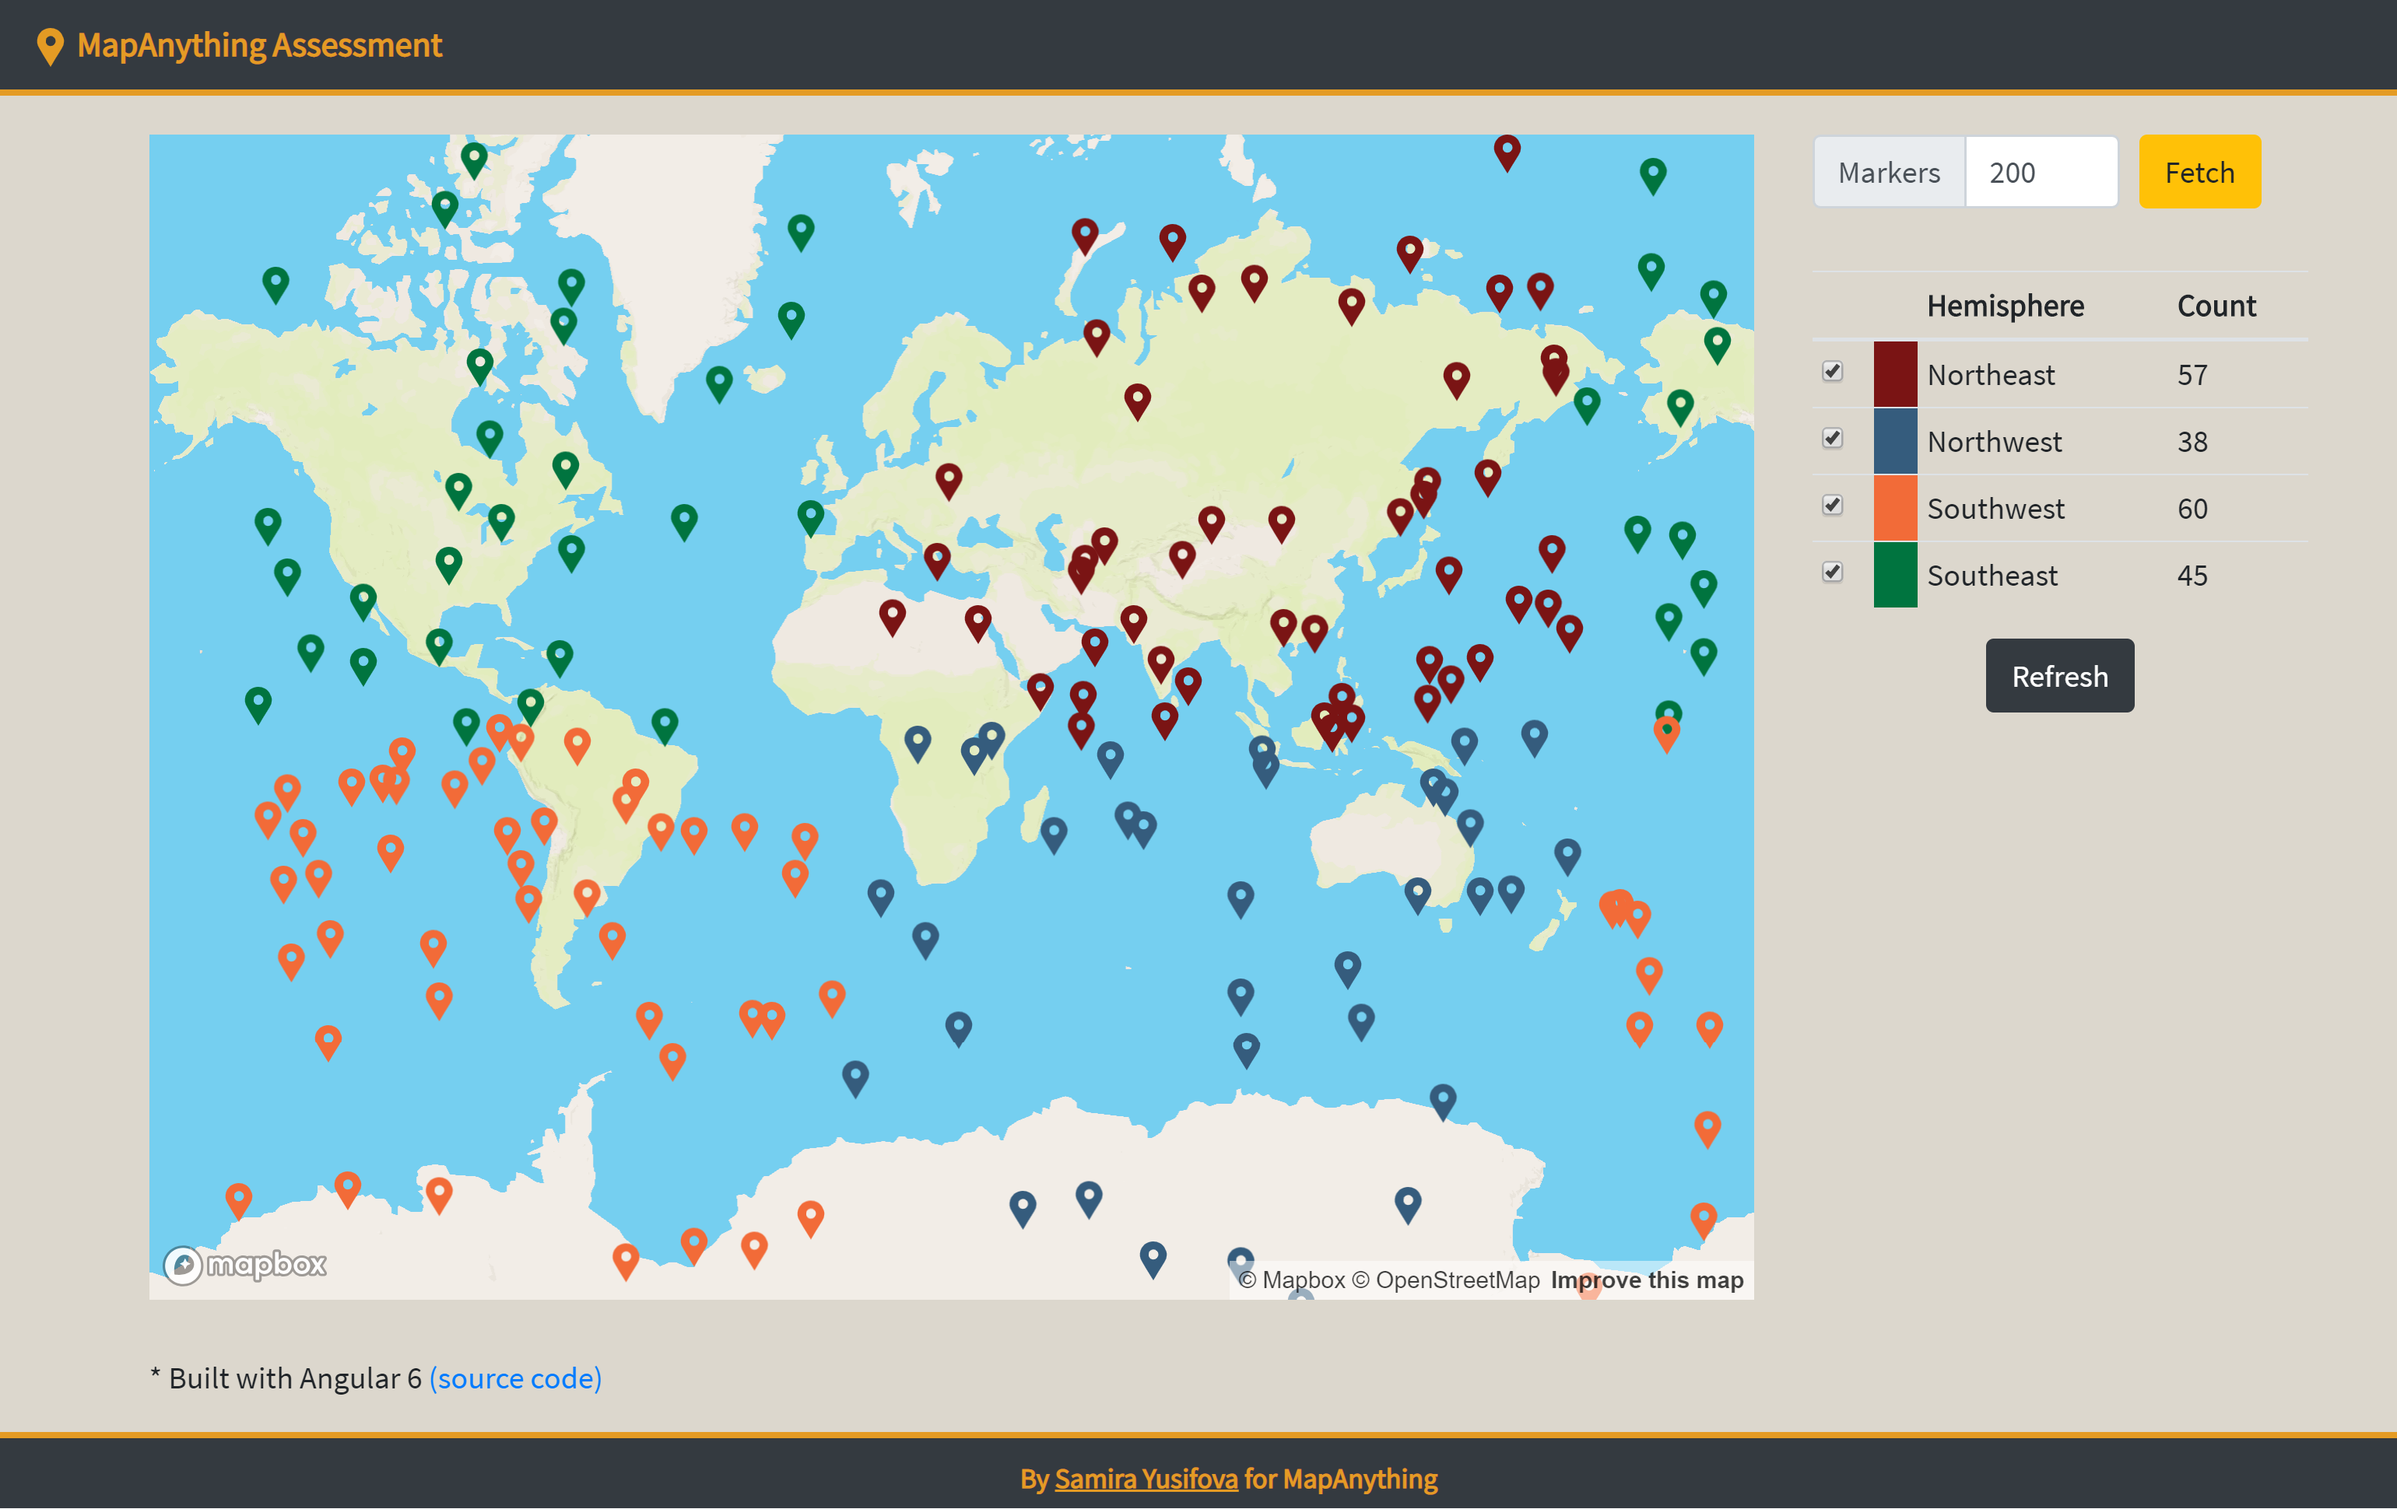
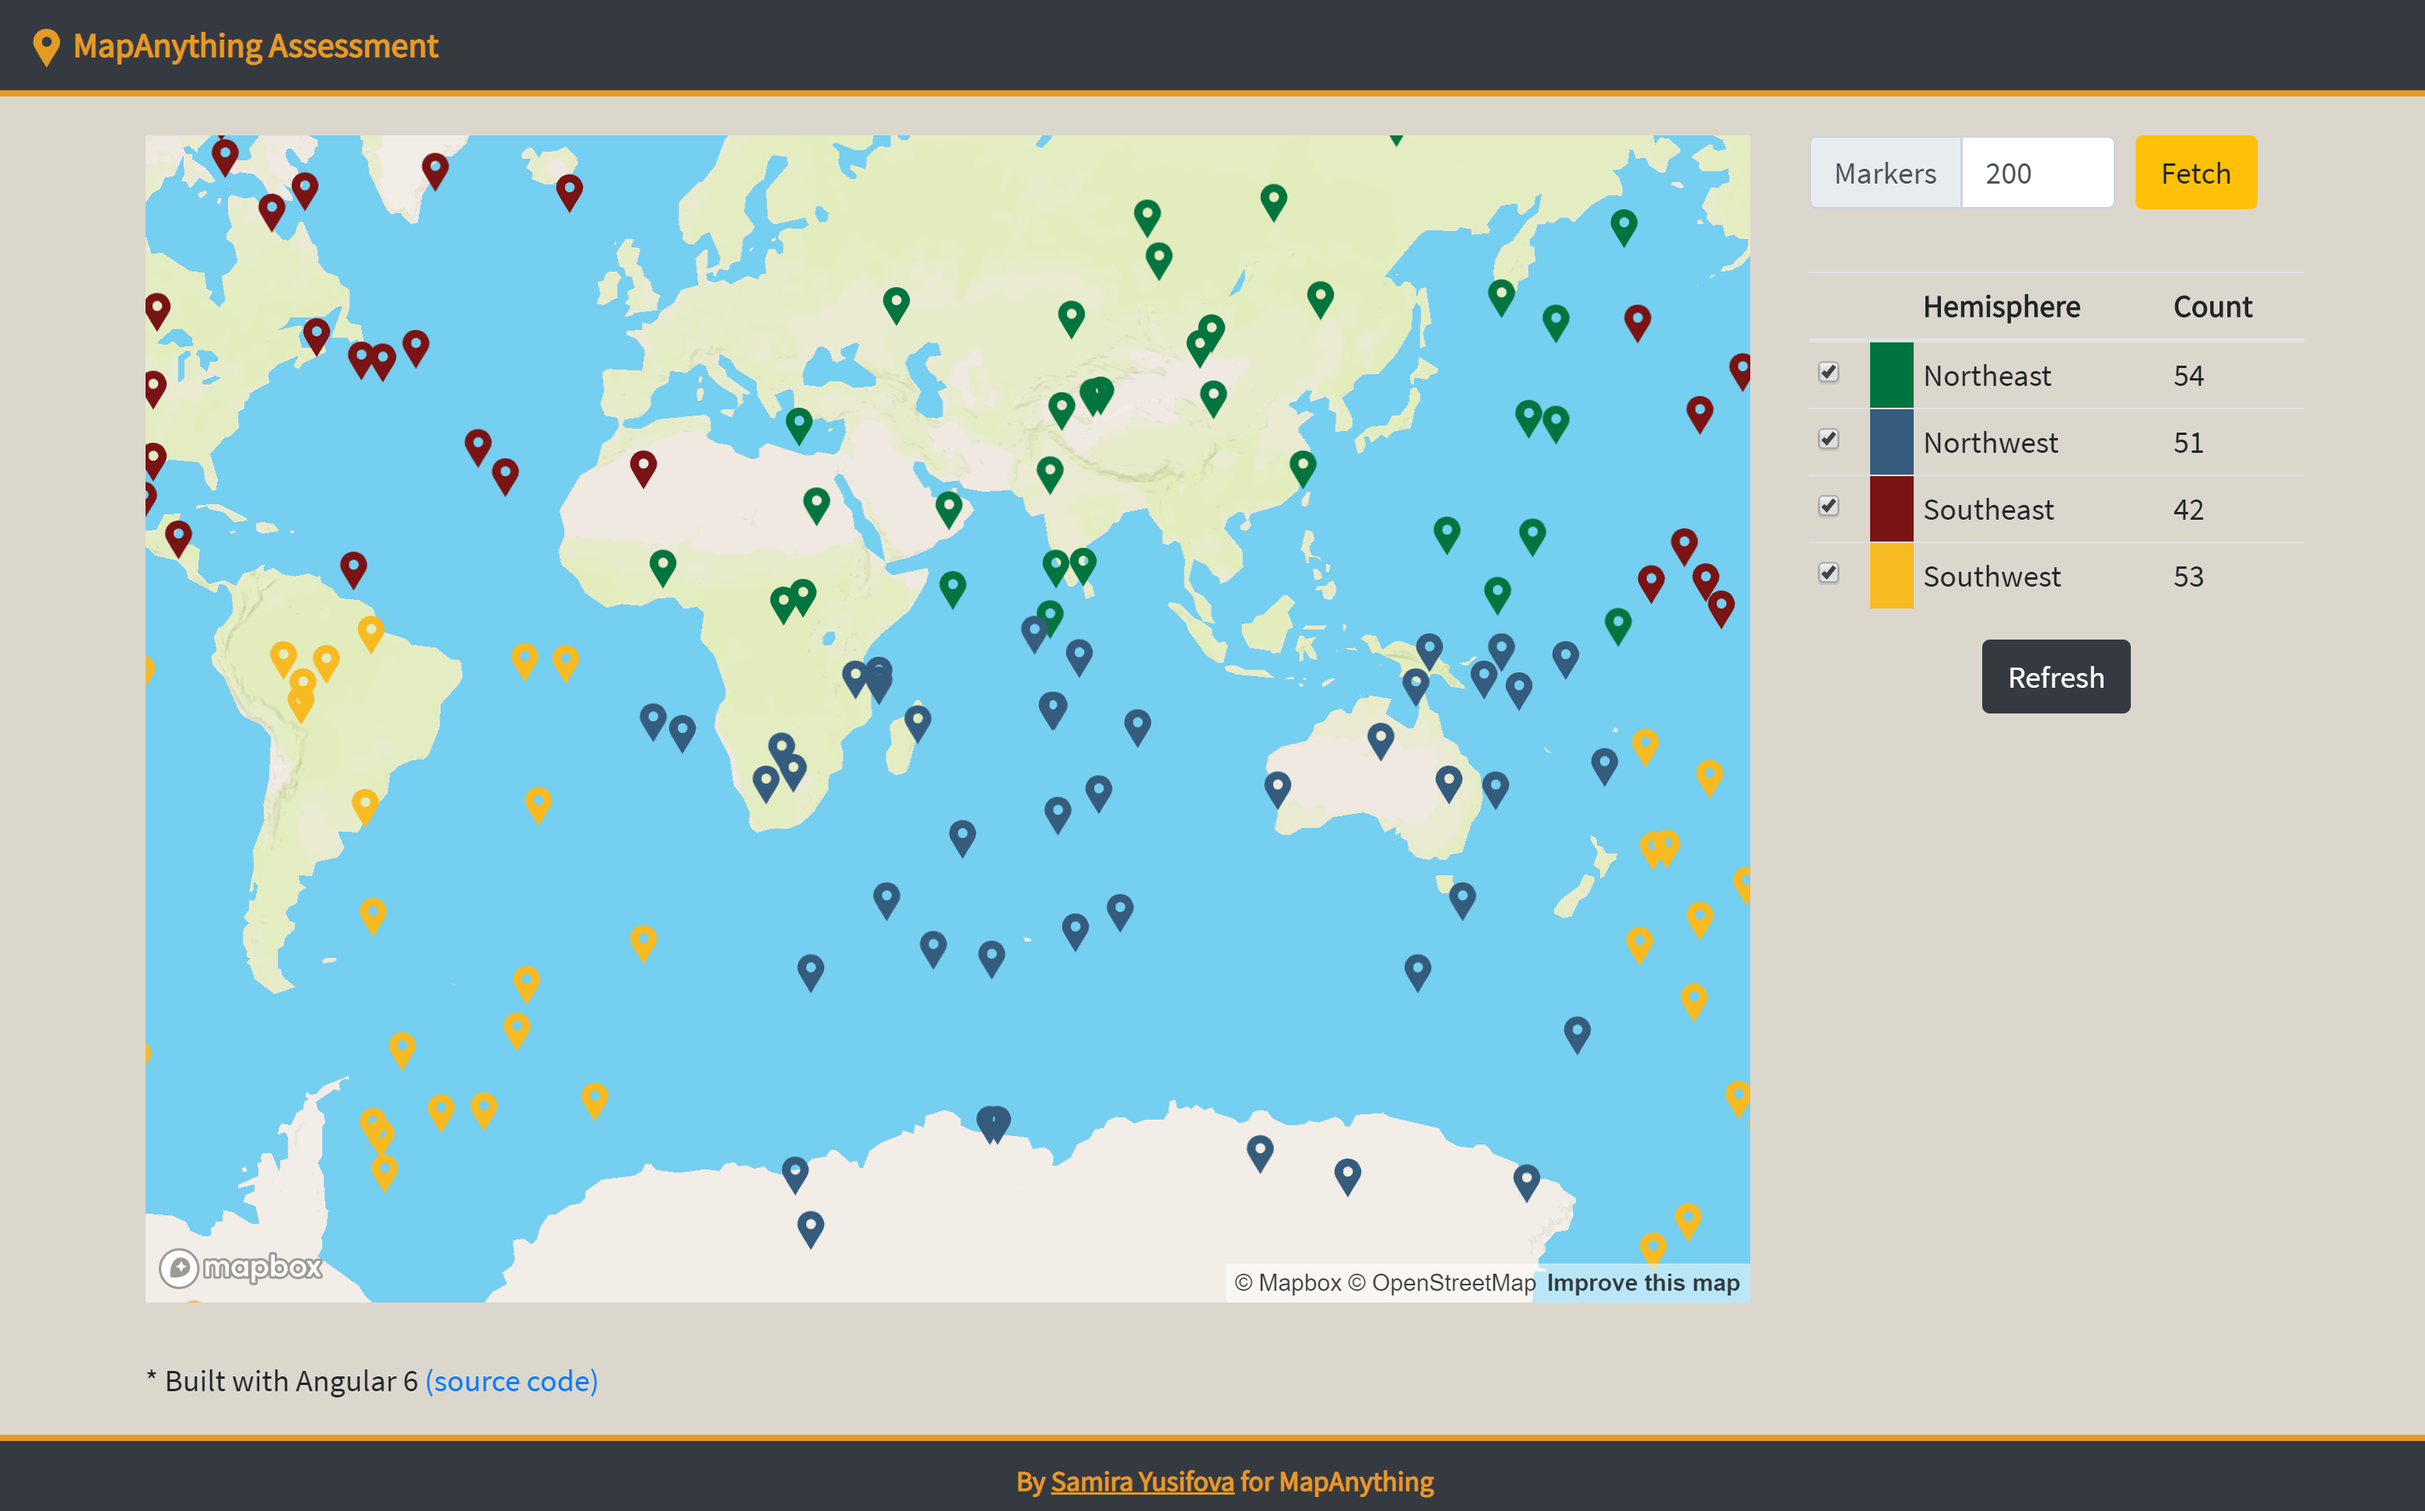
Readme - change screenshot image and modify app info

diff --git a/README.md b/README.md
@@ -1,10 +1,5 @@
 # Mapping app
-This [web application](https://Tiamatt.github.io/Mapping/)  is a lightweight visualization of randomly generated coordinates. You can specify number of coordinates you want to see on the map. Each coordinate marker has its own color based on the hemisphere it belongs to:
-* Northeast - green
-* Northwest - blue
-* Southeast - red
-* Southwest - yellow
-This project is a part of assessment for MapAnything
+This [web application](https://Tiamatt.github.io/Mapping/)  is a lightweight visualization of randomly generated coordinates. You can specify number of coordinates you want to see on the map. Each coordinate marker has its own color based on the hemisphere it belongs to.
 
 ## DEMO
 Live DEMO [here](https://Tiamatt.github.io/Mapping/) <br>
